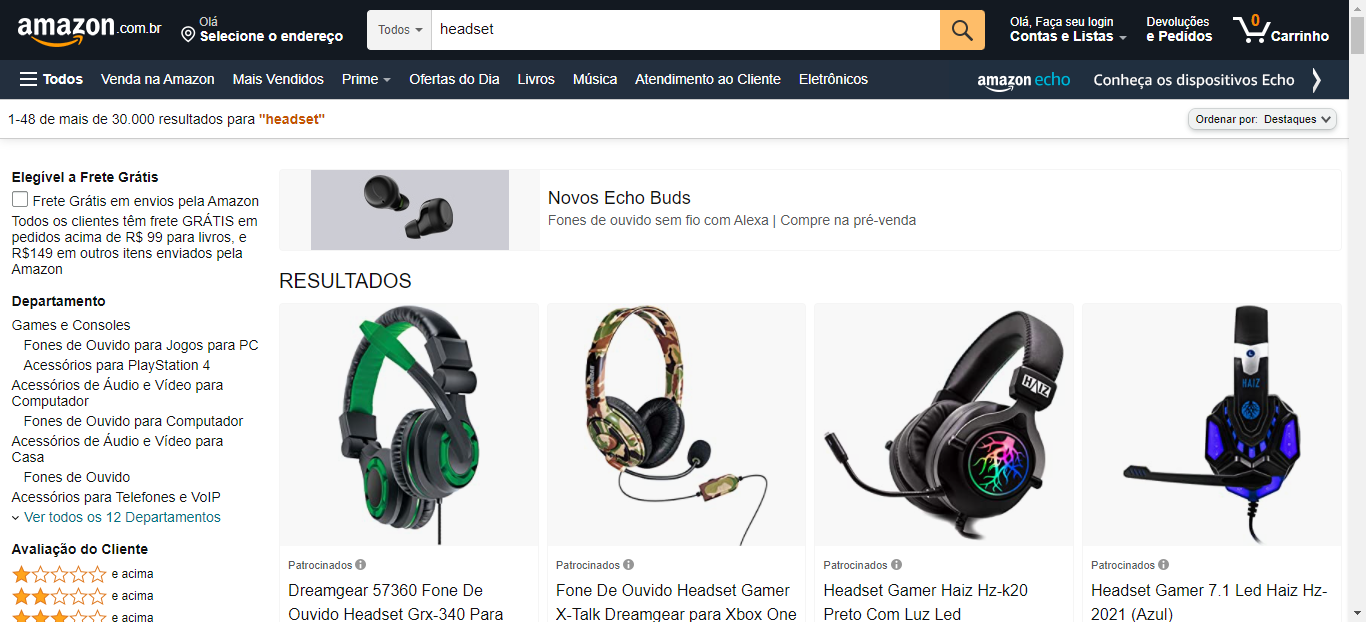
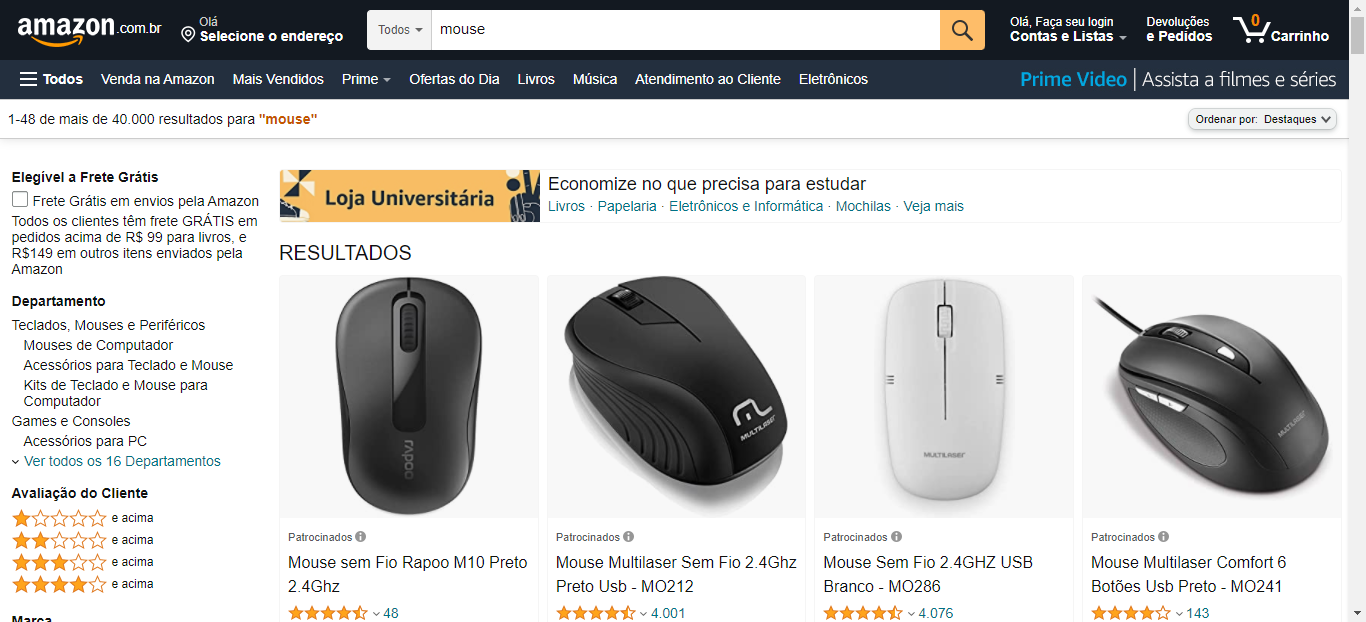
Correção do Erro de Xpath

diff --git a/target/cucumber/report/report.js b/target/cucumber/report/report.js
@@ -13,7 +13,7 @@ formatter.before({
   "status": "passed"
 });
 formatter.step({
-  "name": "eu digitar no campo pesquisa \"headset\"",
+  "name": "eu digitar no campo pesquisa \"mouse\"",
   "keyword": "Quando "
 });
 formatter.match({
@@ -33,7 +33,7 @@ formatter.result({
   "status": "passed"
 });
 formatter.step({
-  "name": "o programa valida se a busca por \"headset\" ocorreu",
+  "name": "o programa valida se a busca por \"mouse\" ocorreu",
   "keyword": "Entao "
 });
 formatter.match({

diff --git a/src/test/java/stepsDefinitions/PesquisaSteps.java b/src/test/java/stepsDefinitions/PesquisaSteps.java
@@ -2,11 +2,14 @@ package stepsDefinitions;
 
 import io.cucumber.java.pt.Entao;
 import io.cucumber.java.pt.Quando;
-import pageObjects.TelaDePesquisaPage;
 import pageObjects.TelaInicialPage;
 
 import static org.junit.Assert.assertTrue;
 import static utils.Utils.*;
+
+import org.openqa.selenium.By;
+import org.openqa.selenium.WebElement;
+
 
 public class PesquisaSteps {
 
@@ -22,12 +25,12 @@ public class PesquisaSteps {
 
 	@Entao("o programa valida se a busca por {string} ocorreu")
 	public void oProgramaValidaSeABuscaOcorreu(String texto) {
-		String campoPesquisado = Na(TelaDePesquisaPage.class).headsetPesquisado.getText();
 		
+		WebElement itemNaSegundaPosicaoDePesquisa = driver.findElements(By.xpath("/html/body/div[1]/div[2]/div[1]/div[1]/div/span[3]/div[2]/div[8]/div")).get(0);
+		
+		String  campoPesquisado = itemNaSegundaPosicaoDePesquisa.getText();
 		
 		assertTrue(campoPesquisado.toLowerCase().contains(texto));
 	}
-
-	
 
 }

diff --git a/src/test/java/stepsDefinitions/PesquisaUtilizandoFiltroSteps.java b/src/test/java/stepsDefinitions/PesquisaUtilizandoFiltroSteps.java
@@ -7,6 +7,10 @@ import pageObjects.TelaDePesquisaPage;
 
 import static org.junit.Assert.assertTrue;
 import static utils.Utils.Na;
+import static utils.Utils.driver;
+
+import org.openqa.selenium.By;
+import org.openqa.selenium.WebElement;
 
 
 public class PesquisaUtilizandoFiltroSteps {
@@ -35,8 +39,11 @@ public class PesquisaUtilizandoFiltroSteps {
 
 	@Entao("^o programa valida se a busca por \"([^\"]*)\" ocorreu corretamente$")
 	public void oProgramaValidaSeABuscaPorOcorreuCorretamente(String texto) throws Throwable {
-		String campoPesquisado = Na(TelaDePesquisaPage.class).itemPesquisadoHarryPotter.getText();
 
+		WebElement itemNaSegundaPosicaoDePesquisa = driver.findElements(By.xpath("/html/body/div[1]/div[2]/div[1]/div[1]/div/span[3]/div[2]/div[4]/div/div/div")).get(0);
+		
+		String campoPesquisado = itemNaSegundaPosicaoDePesquisa.getText();
+		
 		assertTrue(campoPesquisado.toLowerCase().contains(texto));
 	}
 		

diff --git a/src/test/java/pageObjects/TelaDePesquisaPage.java b/src/test/java/pageObjects/TelaDePesquisaPage.java
@@ -5,8 +5,6 @@ import org.openqa.selenium.support.FindBy;
 
 public class TelaDePesquisaPage {
 	
-	@FindBy(xpath = "//*[@id=\"search\"]/div[1]/div[1]/div/span[3]/div[2]/div[6]")
-	public WebElement headsetPesquisado;
 	
 	@FindBy(xpath = "//*[@id=\"search\"]/div[1]/div[1]/div/span[3]/div[2]/div[1]/div/div/div/div[1]/span[1]")
 	public WebElement nenhumResultado;
@@ -21,11 +19,8 @@ public class TelaDePesquisaPage {
 	public WebElement itemFiltradoPorPreco;
 	
 	
-	@FindBy(xpath = "//*[@id=\"search\"]/div[1]/div[1]/div/span[3]/div[2]/div[3]/div/div/div/div")
-	public WebElement itemPesquisadoHarryPotter;
-	
-	public void inserirNoCampoMaiorPreco(String teto) {
-		campoMaiorPreco.sendKeys(teto);
+	public void inserirNoCampoMaiorPreco(String texto) {
+		campoMaiorPreco.sendKeys(texto);
 	}
 	
 	public void clicarNoBotaoIr() {
